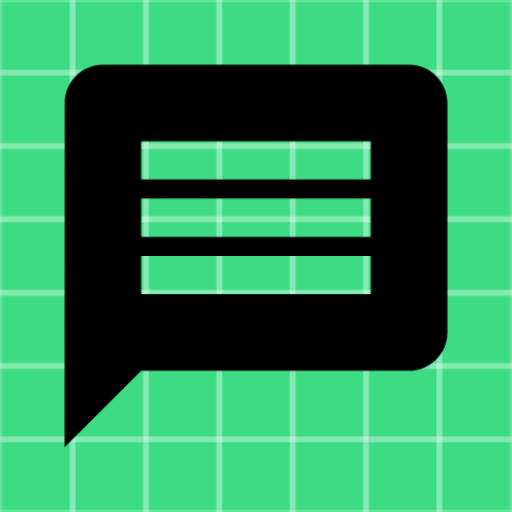
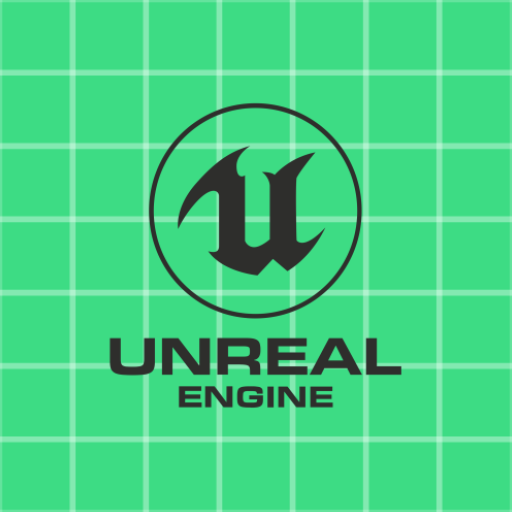
implemented group messenger functions for disciplines

diff --git a/app/src/main/java/com/example/studyt/messenger.java b/app/src/main/java/com/example/studyt/messenger.java
@@ -5,15 +5,26 @@ import androidx.appcompat.app.AppCompatActivity;
 import android.content.Intent;
 import android.os.Bundle;
 import android.view.View;
+import android.widget.Button;
 import android.widget.ImageButton;
 
 public class messenger extends AppCompatActivity {
     private ImageButton profile;
     private ImageButton disciplines;
+    private Button dialog;
     @Override
     protected void onCreate(Bundle savedInstanceState) {
         super.onCreate(savedInstanceState);
         setContentView(R.layout.activity_messenger);
+
+//        dialog = (Button) findViewById(R.id.dialog);
+//        dialog.setOnClickListener((new View.OnClickListener() {
+//            @Override
+//            public void onClick(View view) {
+//                startActivity(new Intent(messenger.this, activity_message.class));
+//            }
+//        }));
+
         disciplines = (ImageButton) findViewById(R.id.Discs);
         disciplines.setOnClickListener(new View.OnClickListener() {
             @Override

diff --git a/app/src/main/java/com/example/studyt/discs.java b/app/src/main/java/com/example/studyt/discs.java
@@ -12,12 +12,20 @@ public class discs extends AppCompatActivity {
 
     private ImageButton profile;
     private ImageButton messenger;
+    private ImageButton unreal_engine;
     @Override
     protected void onCreate(Bundle savedInstanceState) {
         super.onCreate(savedInstanceState);
         setContentView(R.layout.activity_discs);
+        unreal_engine = (ImageButton) findViewById(R.id.unreal);
         profile = (ImageButton) findViewById(R.id.Profile);
         messenger = (ImageButton) findViewById(R.id.Messenger);
+        unreal_engine.setOnClickListener(new View.OnClickListener() {
+            @Override
+            public void onClick(View view) {
+                startActivity(new Intent(discs.this, activity_message.class));
+            }
+        });
         profile.setOnClickListener(new View.OnClickListener() {
             @Override
             public void onClick(View view) {

diff --git a/app/src/main/java/com/example/studyt/ProfileActivity.java b/app/src/main/java/com/example/studyt/ProfileActivity.java
@@ -67,7 +67,7 @@ public class ProfileActivity extends AppCompatActivity {
                     String email = userProfile.email;
                     String age = userProfile.age;
 
-                    greetingTextView.setText("Welcome, " + fullName + "!");
+                    greetingTextView.setText("Welcome, " + fullName);
                     fullNameTextView.setText(fullName);
                     emailTextView.setText(email);
                     ageTextView.setText(age);
